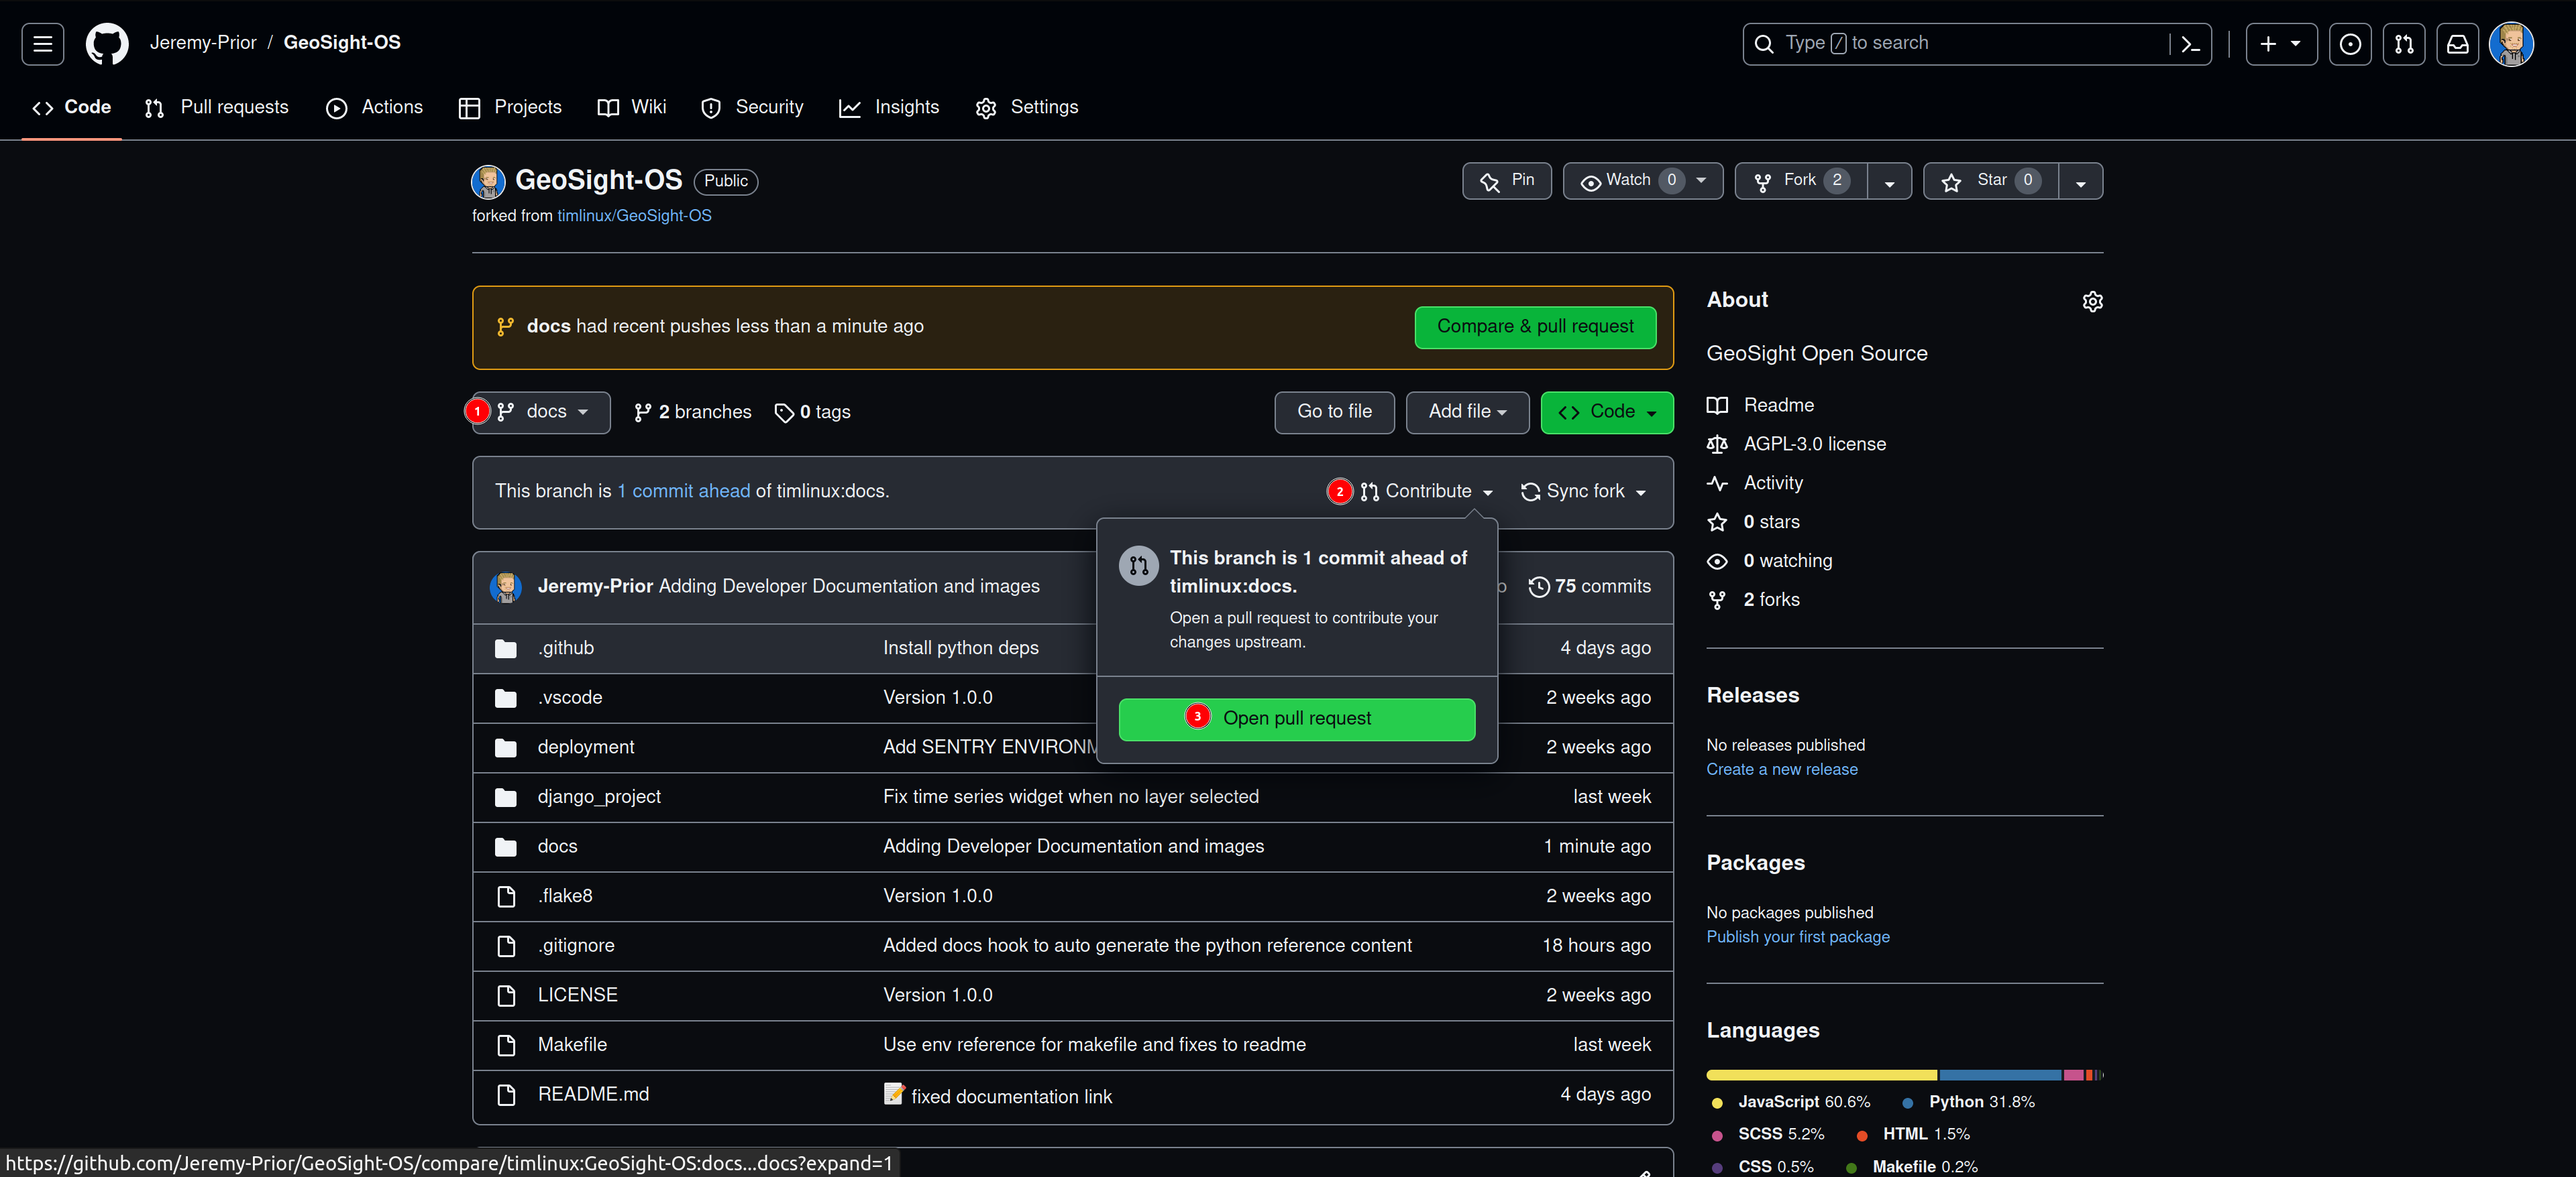
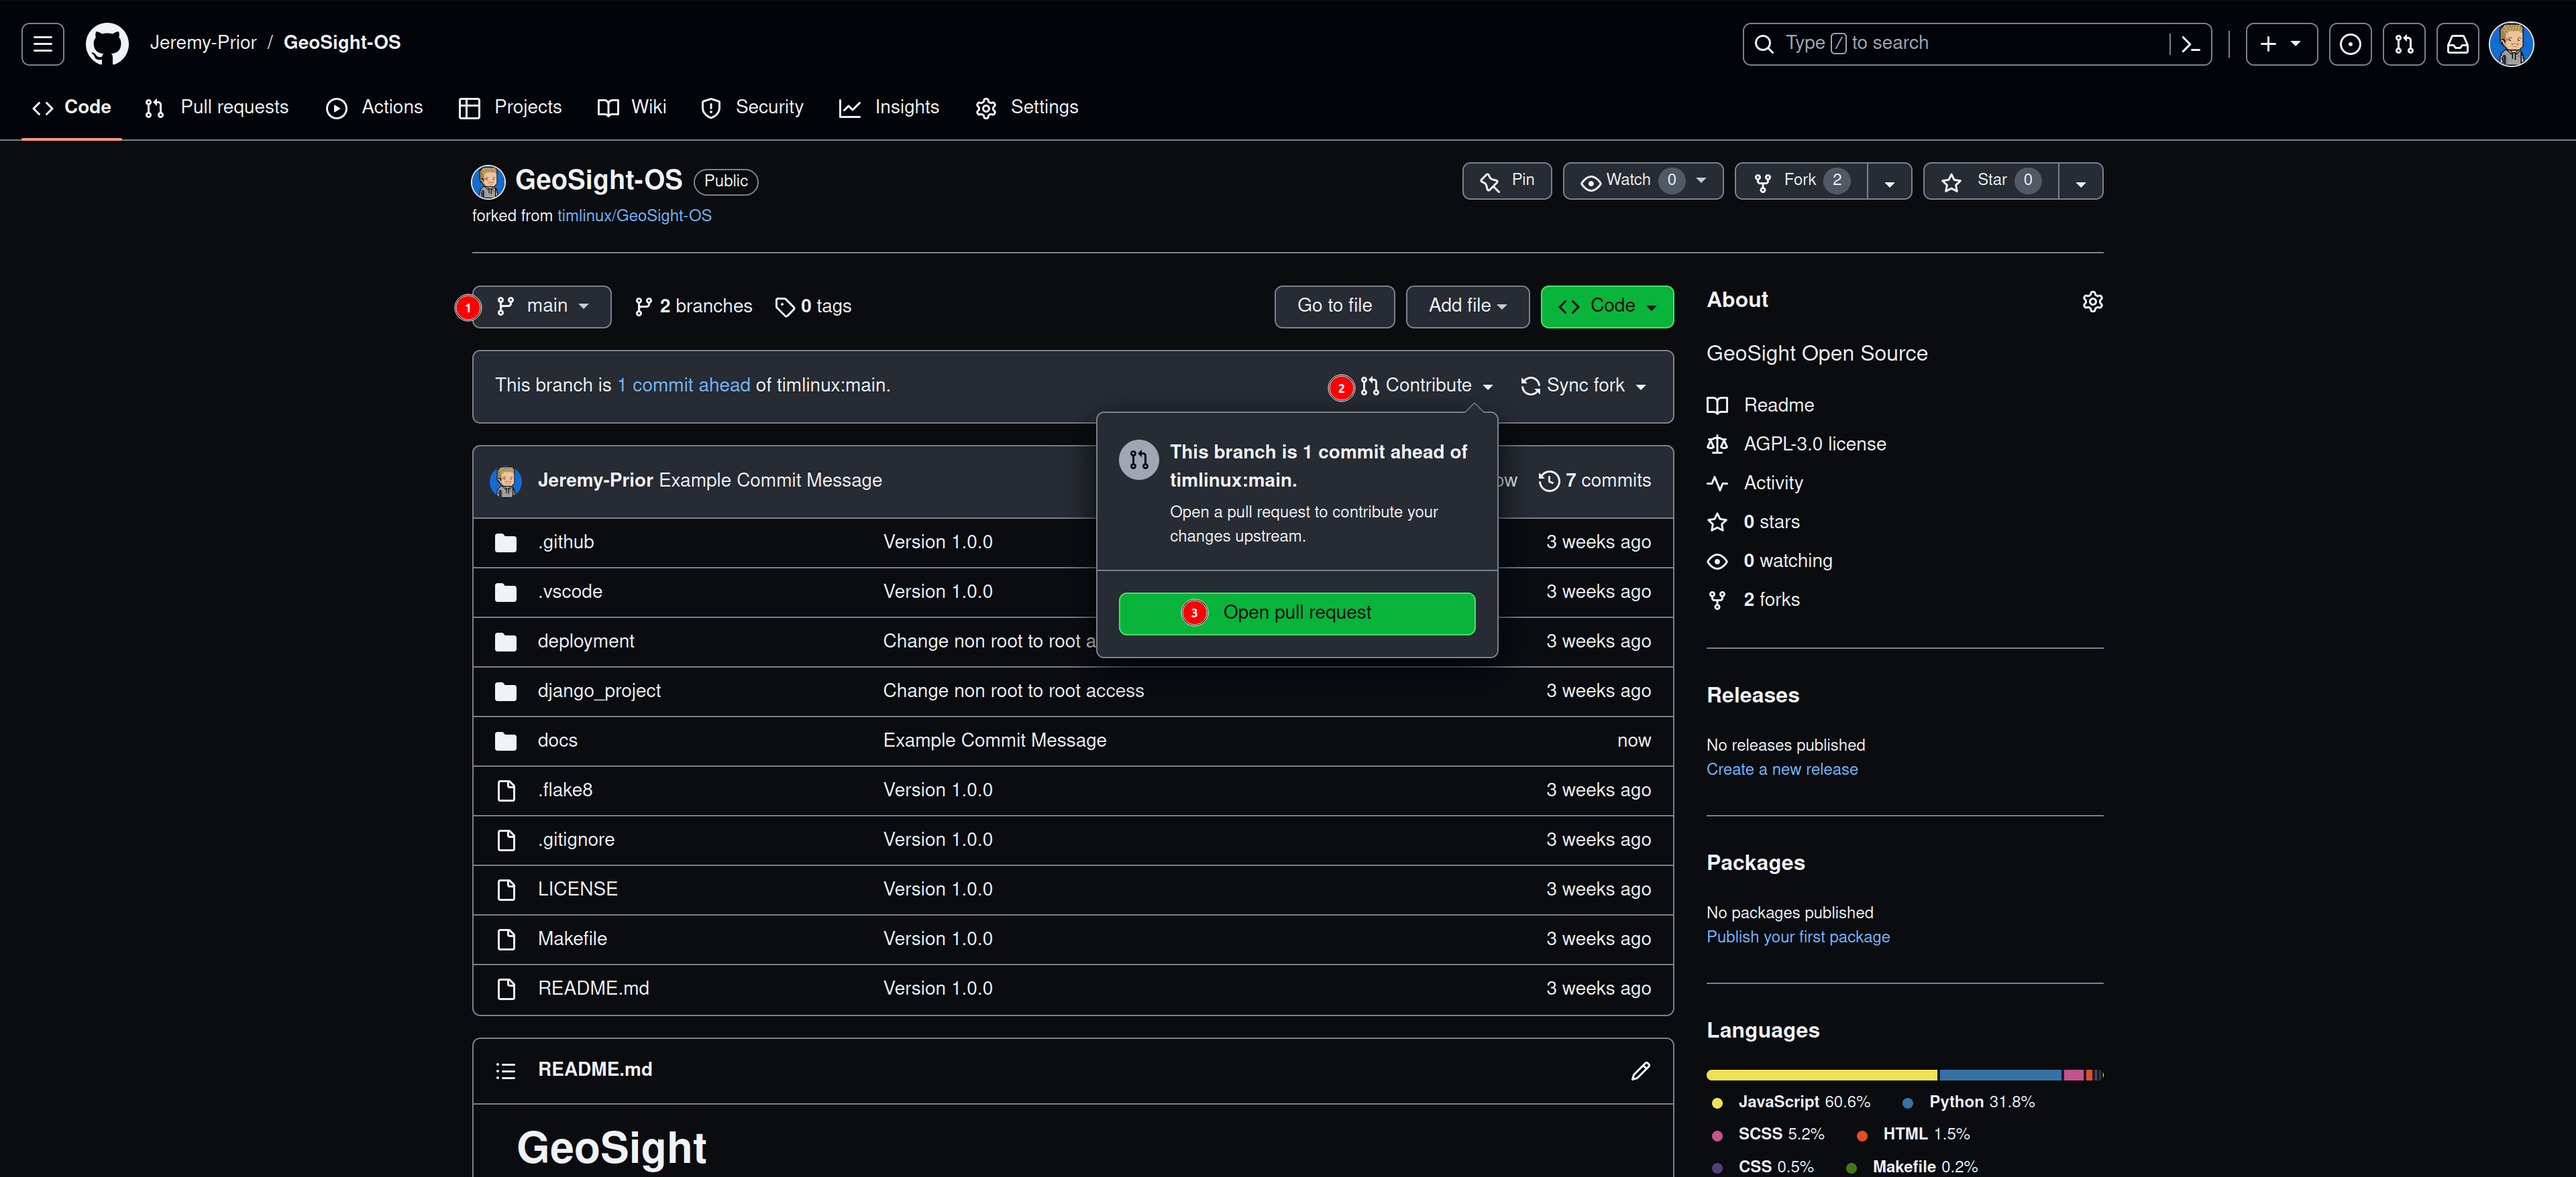
Editing workflow for adding to documentation

Changed region(s): [[0.0, 0.2153, 0.6562, 1.0], [0.5938, 0.9226, 0.6562, 0.9533]]

diff --git a/docs/src/developer/documentation/index.md b/docs/src/developer/documentation/index.md
@@ -141,16 +141,16 @@ To start adding to the documentation navigate to the [home page](https://github.
 Once on the repository home page, (1) click on Fork
 ![Fork Repository 1](img/dev-docs-fork-repo-1.png)
 
-On the next page (1) Make sure your github account is selected as the owner and (2) make sure you untick the option to  "**Copy the** `main` **branch only**" as you want to copy all branches.
+On the next page (1) Make sure your github account is selected as the owner and (2) make sure the "**Copy the** `main` **branch only**" option is ticked as you will only need the main branch.
 ![Fork Repository 2](img/dev-docs-fork-repo-2.png)
 
-Once you have forked the repository, (1) click on the drop down menu underneath the repository title and then (2) click on the `docs` branch.
-![Change Branch](img/dev-docs-change-branch.png)
+Once you have forked the repository, ensure that you are working in the main branch.
+![Change Branch](img/dev-docs-check-branch.png)
 
-Once you are in the `docs` branch on your fork of the repository, click on `.` on your keyboard. This will open a web editor where you can begin adding to, or editing, the documentation.
+Once you are in your fork of the repository, click on `.` on your keyboard. This will open a web editor where you can begin adding to, or editing, the documentation.
 ![Web Editor 1](img/dev-docs-web-editor-1.png)
 
-Once the editor loads, you will be greeted by (1) a preview of the project's README.txt. (2) Click on the `docs` directory in the menu on the left, this will expand the directory. To confirm that you are working in the right branch (3) it will say `docs` in the bottom left of the editor.
+Once the editor loads, you will be greeted by (1) a preview of the project's README.txt. (2) Click on the `docs` directory in the menu on the left, this will expand the directory. To confirm that you are working in the right branch (3) it will say `main` in the bottom left of the editor.
 ![Web Editor 2](img/dev-docs-web-editor-2.png)
 
 Once you have expanded the `docs` directory, (1) click on the `src` directory. All sub-directories within the `src` directory contain the files that become the documentation. Each sub-directory contains an `index.md` file that is required for the building of the documentation and static site. If you add a new sub-directory into any folder it must also contain a populated `index.md` file.
@@ -168,10 +168,10 @@ When you have completed making additions to (or editing) the documentation, (1) 
 Once you have committed your changes, (1) Click on the burger menu and then (2) click on `Go To Repository`
 ![Web Editor 7](img/dev-docs-web-editor-7.png)
 
-Your fork of the repository will be opened in a new tab within your browser, navigate to that tab. Once there (1) switch to the docs branch, you should see how many commits ahead of the upstream branch you are, then (2) click on `Contribute`-> `Open pull request`.
+Your fork of the repository will be opened in a new tab within your browser, navigate to that tab. Once there (1) ensure you are on the `main`, you should see how many commits ahead of the upstream branch you are, then (2) click on `Contribute`-> `Open pull request`.
 ![Pull Request 1](img/dev-docs-pull-request-1.png)
 
-On the next screen, (1) give your pull request a meaningful title, (2) give additional details regarding changes made in the larger text box, then (3) click on `Create pull request`. Also ensure you are creating a pull request to the upstream `docs` branch from your `docs` branch.
+On the next screen, (1) give your pull request a meaningful title, (2) give additional details regarding changes made in the larger text box, then (3) click on `Create pull request`. Also ensure you are creating a pull request to the upstream `main` branch from your `main` branch.
 ![Pull Request 2](img/dev-docs-pull-request-2.png)
 
 Once your pull request is opened you need to wait for it to be merged before you can open a new one.
